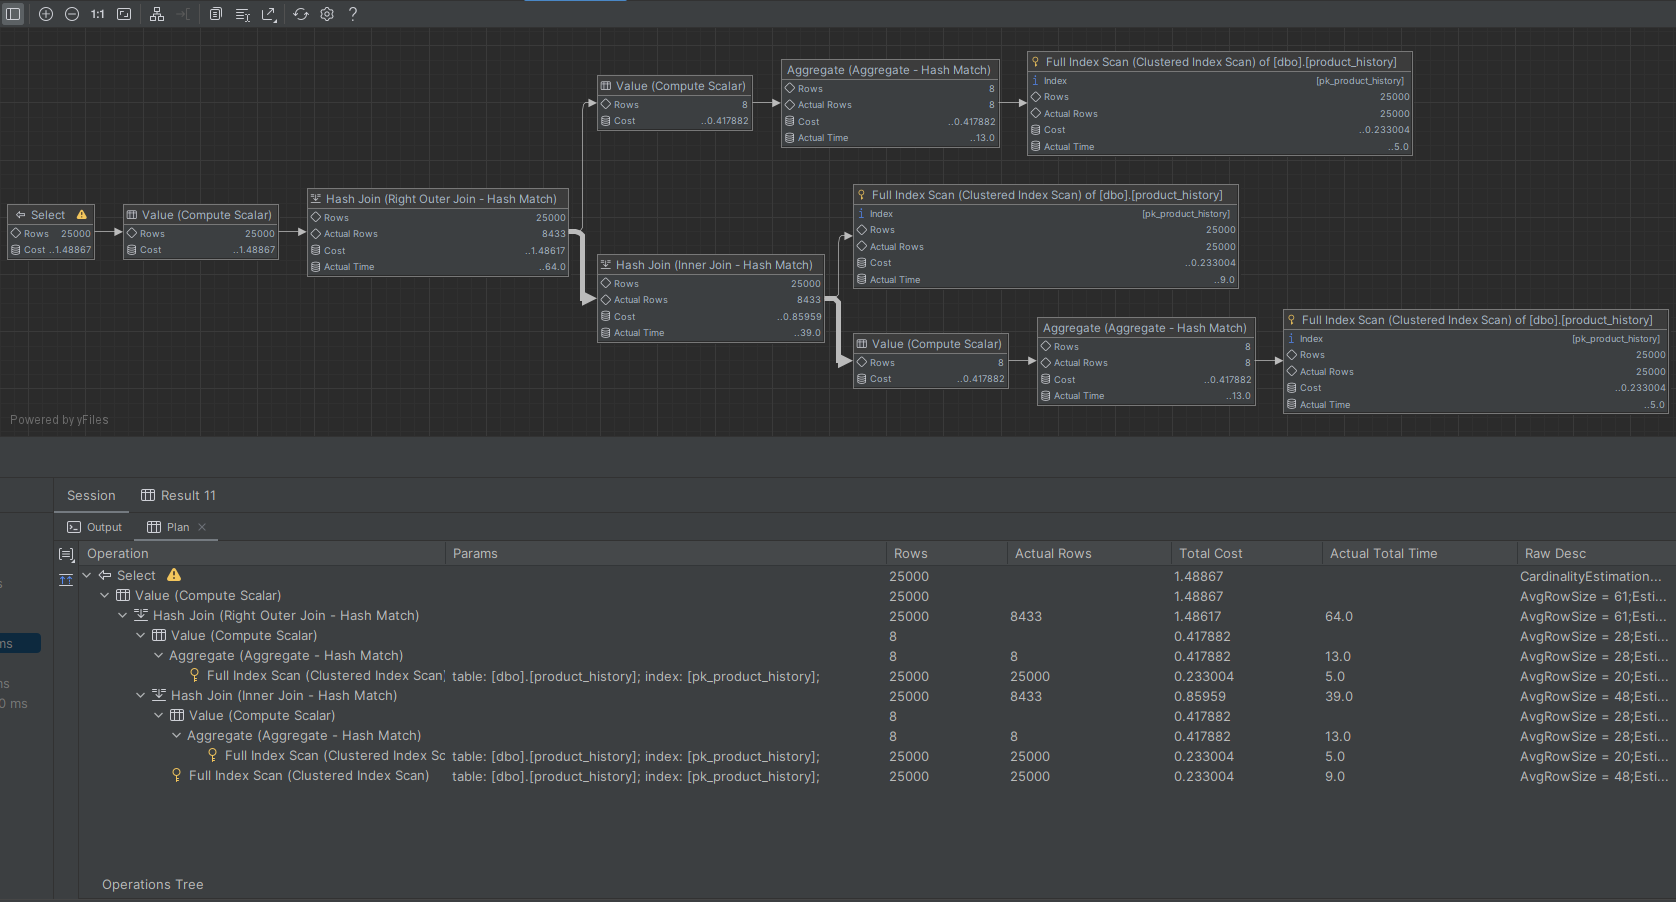
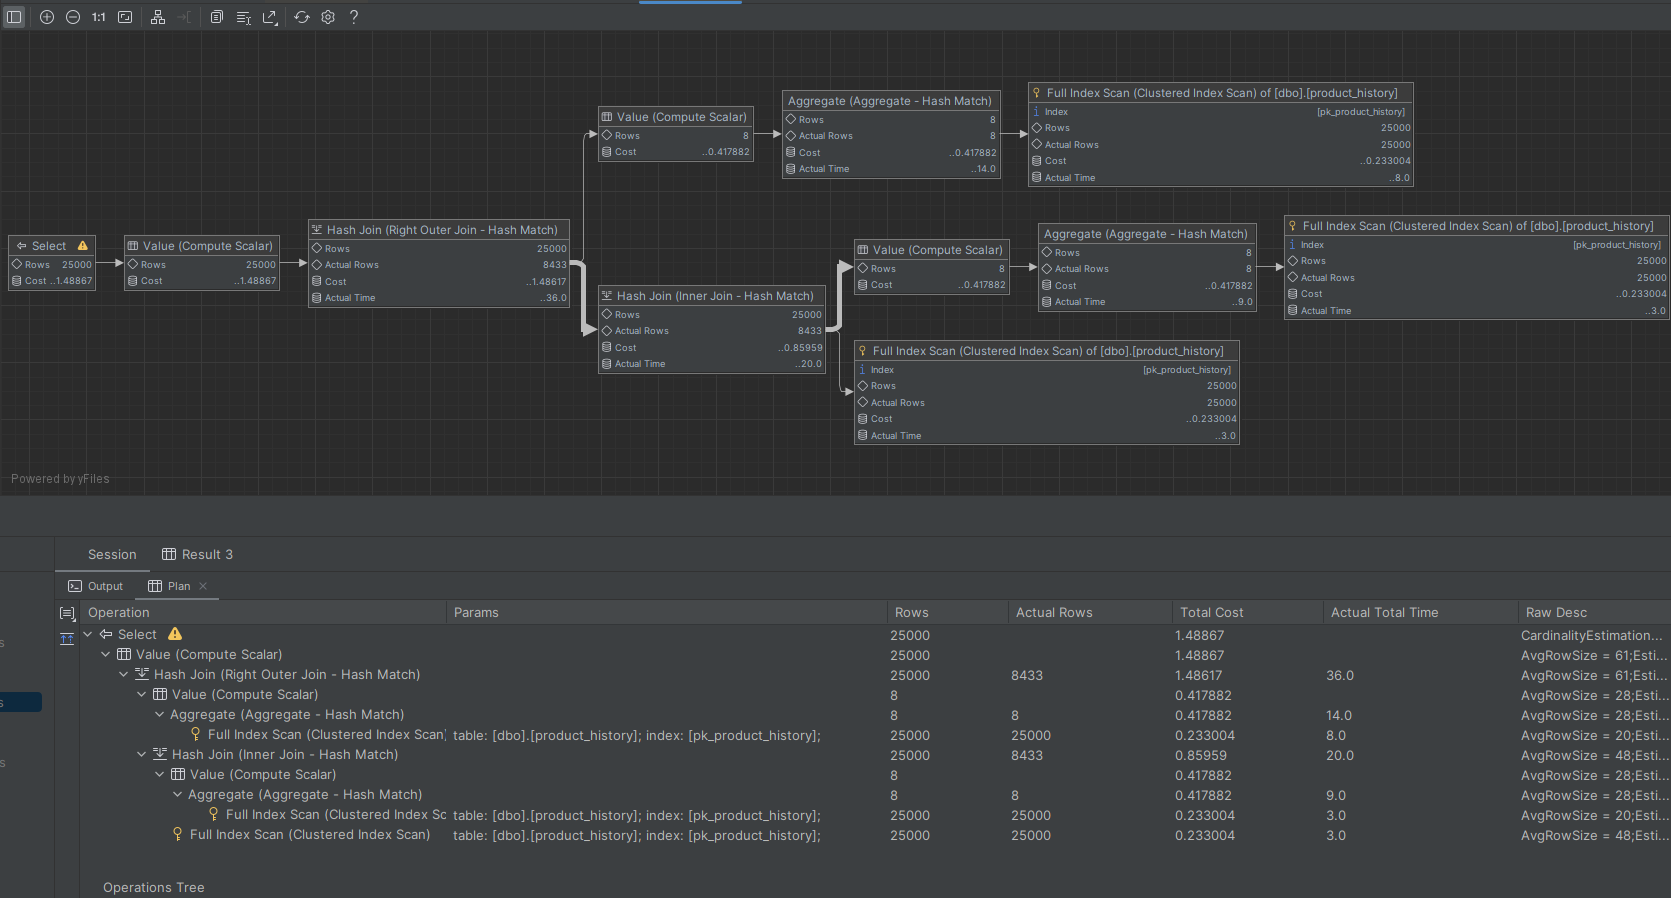
Fix ex6

diff --git a/lab1-2/lab-1-2-window-function.md b/lab1-2/lab-1-2-window-function.md
@@ -371,7 +371,7 @@ Najszybszym rozwiązaniem pod względem czasu okazał się SQLite, jednakże lic
 ![alt text](./_img/zad4_5.png)
 ![alt text](./_img/zad4_6.png)
 
-Jak widać koszt zapytań jest najniższy w przypadku funkcji okna.
+Koszt zapytań jest najniższy w przypadku funkcji okna.
 
 #### SQL Server - subquery
 ![alt text](./_img/zad4_7.png)
@@ -569,13 +569,28 @@ Przetestuj działanie w różnych SZBD (MS SQL Server, PostgreSql, SQLite)
 
 ### Wyniki
 
-#### Zapytania
-
+### Zapytania
 ```sql
 -- subquery
-select productid, productname, unitprice, (select AVG(unitprice) FROM product_history AS P2 where P2.categoryid = P1.categoryid) AS avg_price FROM product_history AS P1
-where unitprice > (select AVG(unitprice) FROM product_history AS P2 where P2.categoryid = P1.categoryid);
+SELECT 
+    productid, 
+    productname, 
+    unitprice, 
+    (
+        SELECT AVG(unitprice) 
+        FROM product_history AS P2 
+        WHERE P2.categoryid = P1.categoryid
+    ) AS avg_price 
+FROM 
+    product_history AS P1
+WHERE 
+    unitprice > (
+        SELECT AVG(unitprice) 
+        FROM product_history AS P2 
+        WHERE P2.categoryid = P1.categoryid
+    );
 ```
+
 ```sql
 -- join
 SELECT
@@ -593,65 +608,75 @@ HAVING P1.unitprice > AVG(P2.unitprice);
 ```
 ```sql
 -- window function
-SELECT productid, productname, unitprice, avg
-FROM
-    (SELECT productid, productname, unitprice, AVG(unitprice) over (partition by categoryid) AS avg
-     FROM product_history
-    ) AS ss
-WHERE unitprice > avg;
+WITH ProductsWithAvg AS (
+    SELECT 
+        productid, 
+        productname, 
+        unitprice, 
+        AVG(unitprice) OVER (PARTITION BY categoryid) AS avg
+    FROM 
+        product_history
+)
+SELECT 
+    productid, 
+    productname, 
+    unitprice, 
+    avg
+FROM 
+    ProductsWithAvg
+WHERE 
+    unitprice > avg;
 ```
 
-Zapytanie wykorzystujące podzapytanie i join są bardziej skomplikowane, podczas gdy zapytanie wykorzystujące funkcje oknaj jest bardziej zwięzłe i czytalne.
+Zapytanie z wykorzystaniem funkcji okna jest krótkie i najprostsze do zrozumienia.
 
-Dla dwóch milionów rekordów w tabelach `product_history` wykonanie zapytań trwało bardzo długo. Po kilku minutach zdecydowaliśmy się zmniejszyć ilość rekordów w tabelach do 25000.
+### Czasy
+Dla dwóch milionów rekordów w tabelach `product_history` wykonanie zapytań szczególnie w przypadku PostgreSQL trwało bardzo długo. Po kilku minutach zdecydowaliśmy się zmniejszyć ilość rekordów w tabelach. Dopiero po zmniejszeniu ich do 2500 można było uzyskać wyniki w rozsądnym czasie.
 
-#### Czasy
-
-**PostgreSQL**
-| Zapytanie | subquery  | join  | window function |
-| ---       | ---       | ---   |---              |
-| Czas      | 4m 15s    | 42s   | 298ms           |
-
-**SQL Server**
-| Zapytanie | subquery  | join  | window function |
-| ---       | ---       | ---   |---              |
-| Czas      | 1s 932ms  | 319ms | 165ms           |
-
-**SQLite**
+#### PostgreSQL
 | Zapytanie | subquery  | join   | window function |
 | ---       | ---       | ---    |---              |
-| Czas      | 3s        | 1m 48s | 103ms           |
+| Czas      | 3m 46s    | 607ms  | 210ms           |
 
-SQL Server wykazuje znacznie lepszą wydajność w porównaniu do PostgreSQL i SQLite we wszystkich rodzajach zapytań, zwłaszcza w przypadku subquery i join. PostgreSQL daje najgorsze czasy, podczas gdy SQLite wyróżnia się wyjątkowo szybkim czasem wykonywania window function oraz subquery, lecz traci na wydajności w przypadku join.
+#### SQL Server
+| Zapytanie | subquery  | join  | window function |
+| ---       | ---       | ---   |---              |
+| Czas      | 1s 659ms  | 207ms | 148ms           |
 
-#### Plany wykonania
-**PostgreSQL**
+#### SQLite
+| Zapytanie | subquery  | join   | window function |
+| ---       | ---       | ---    |---              |
+| Czas      | 3s        | 1m 23s | 127ms           |
 
-- Subquery
-  Mimo długiego czasu oczekiwanie nieudało się uzyskać wyniku.
+SQL Server wykazuje znacznie lepszą wydajność w porównaniu do PostgreSQL i SQLite w zapytaniach wykorzystujących podzapytania oraz joiny. SQLite wyróżnia się wyjątkowo szybkim czasem wykonywania window function oraz subquery, lecz znacznie traci na wydajności w przypadku join. PostgreSQL daje najgorsze wyniki w każdym przypadku.
+
+### Plany wykonania
+
+#### PostgreSQL - subquery
   ![alt text](./_img/zad6_1.png)
 
-- Join
+#### PostgreSQL - join
   ![alt text](./_img/zad6_2.png)
 
-- Window function
+#### PostgreSQL - window function
   ![alt text](./_img/zad6_3.png)
 
-Plan wykonania w przypadku funkcji okna jest znacznie krótszy i bardziej przejrzysty. Koszt zapytań w przypadku funkcji okna jest wielokrotnie niższy.
+Koszt zapytań jest najniższy w przypadku funkcji okna.
 
-**SQL Server**
-- Subquery
+#### SQL Server - subquery
   ![alt text](./_img/zad6_4.png)
 
-- Join
+#### SQL Server - join
   ![alt text](./_img/zad6_5.png)
 
-- Window function
+#### SQL Server - window function
   ![alt text](./_img/zad6_6.png)
 
-W tym przypadku udało się uzyskać plan wykonania dla każdego z zapytań. Plany wykonania dla tego systemu są bardziej skomplikowane w porównaniu do PostgreSQL. Koszty zapytań są dużo mniejsze niż w przypadku PostgreSQL. Tutaj również najniższy koszt zapytań występuje podczas wykorzystania funkcji okna.
+W przypadku PostgreSQL koszt zapytań jest również najniższy w przypadku funkcji okna.
 
-**SQLite**
+W porównaniu do PostgreSQL plany zapytań serwera SQL Server są dużo bardziej rozbudowane, co jest szczególnie widoczne w przypadku zapytania wykorzystującego podzapytania. Patrząc jednak na liczbę równoległych ścieżek wykonania operacji dla serwera SQL Server można stwierdzić, że więcej operacji wykonuje on równolegle, gdzie PostgreSQL raczej stara się je sprowadzić do obliczeń sekwencyjnych.
+
+#### SQLite
 Dla tego serwera bazodanowego DataGrip nie pozwala zobaczyć analizy zapytań.
 
 ---
